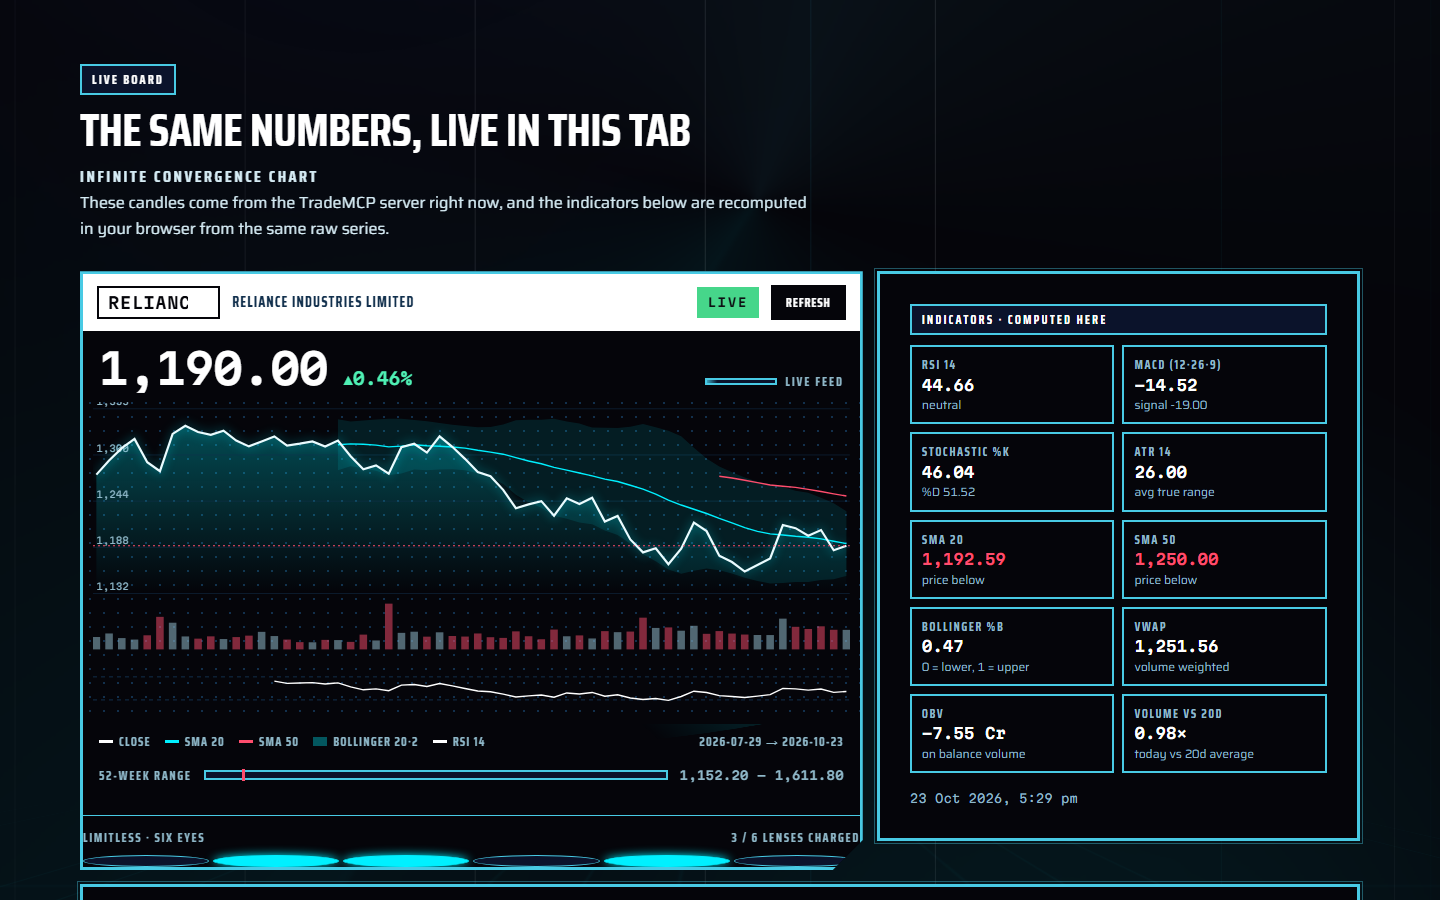
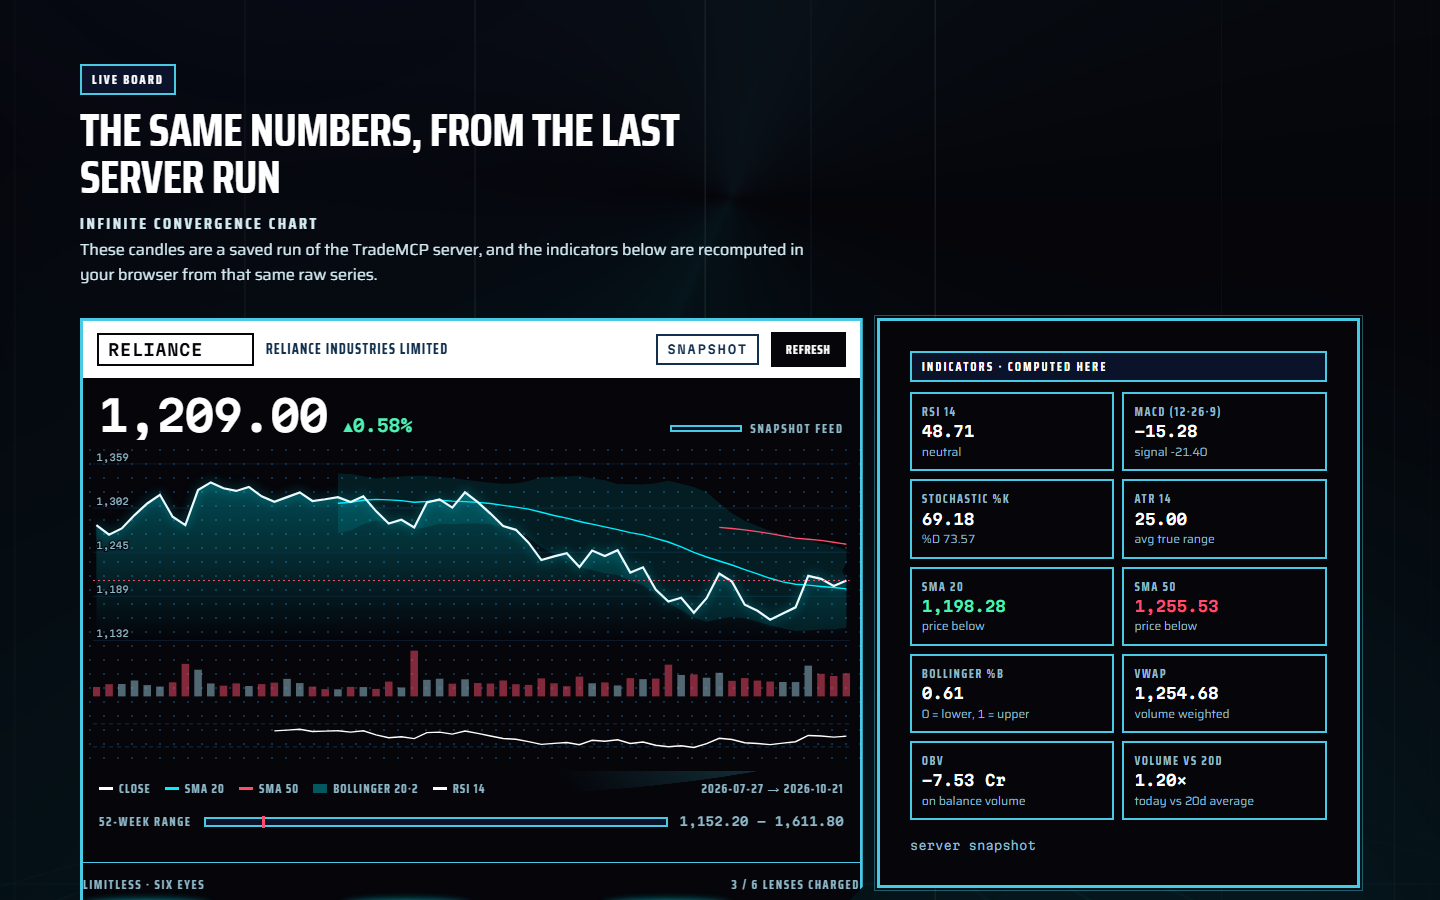
Give the page's edges back: a focus ring you can see, a chart you can read
The polish pass found the site's own edges failing in four ways, and one
thing both audits missed:

- The focus ring was drawn in the accent colour, which is the same colour as
  the button it was marking in the shrine (1.00:1) and was near invisible on
  the live board's input and the screener's chips in the other themes. It is
  now drawn inside the control, in the control's own text colour, which is
  always chosen against that control's fill: 0 invisible rings across four
  themes and 132 tab stops.
- The chart is drawn in a fixed 900-unit space and stretched into the panel,
  so on a phone its price labels rendered at five pixels tall. They now grow
  with the plot, they are knocked out of the price line the way a caption is
  knocked out of a panel, and the top label is no longer sliced.
- The domain nameplate existed only as an animation, so under
  prefers-reduced-motion it resolved to its invisible last keyframe and the
  one place that names the open domain never fired. It has a still state.
- The symbol chip clipped RELIANCE to RELIANC; the phone nav hid its last
  destination with no affordance; the working install command split the
  GitHub URL mid-token into "aswat" and "has"; and the flagged npx command
  was the smallest text in the hero.
- The HUD badge claimed LIVE over a snapshot. It says SNAPSHOT until the feed
  is live, and the shrine's CALL badge no longer sits at 3.9:1.

Changed region(s): [[0.0312, 0.1556, 0.9375, 1.0], [0.3125, 0.1244, 0.5, 0.1867]]

diff --git a/showcase/site/styles.css b/showcase/site/styles.css
@@ -157,9 +157,16 @@ html:not(.has-cursor) [role="tab"] { cursor: pointer; }
 }
 .skip:focus { left: 8px; top: 8px; }
 
+/* The ring has to survive a control that is painted with the page's own ink:
+   the live board's input sits on an inverted bar, the screener's chips are
+   white on a dark panel, and in the shrine the active chip is the same
+   crimson as the accent - so a ring in the accent colour lands on the same
+   colour as the button it is marking. The ring is therefore drawn inside the
+   control, in the control's own text colour, which is chosen against that
+   control's fill everywhere on the page. */
 :focus-visible {
-  outline: 3px solid var(--cyan);
-  outline-offset: 3px;
+  outline: 3px solid currentColor;
+  outline-offset: -3px;
 }
 
 /* The parts of the page that were not drawn still have to belong to it.
@@ -1243,13 +1250,13 @@ code {
   font-size: 16px;
   letter-spacing: 0.04em;
   text-transform: uppercase;
-  width: 11ch;
+  width: 14ch;
   padding: 5px 9px;
   border: 2px solid var(--paper);
   background: transparent;
   color: var(--paper);
 }
-.board__symbol input:focus { outline: 2px solid var(--cyan); outline-offset: 1px; }
+.board__symbol input:focus { outline: 2px solid currentColor; outline-offset: -2px; }
 
 .board__name {
   font-family: var(--font-ui);
@@ -1312,15 +1319,33 @@ code {
 
 /* The chart holds its space even before the series arrives, so the panel
    never jumps when the SVG is written into it. */
-.chart { padding: 6px 10px 0; aspect-ratio: 900 / 380; }
+.chart {
+  padding: 6px 10px 0;
+  aspect-ratio: 900 / 380;
+  /* The plot is drawn in a fixed 900-unit space and stretched into the panel,
+     so on a phone it is scaled to about a third. The price labels live inside
+     that space, so they are sized in the same units - and the type has to
+     grow as the plot shrinks, or the reader gets four-pixel numbers. */
+  --chart-axis: 11px;
+}
+@media (max-width: 720px) { .chart { --chart-axis: 16px; } }
+@media (max-width: 560px) { .chart { --chart-axis: 22px; } }
+@media (max-width: 430px) { .chart { --chart-axis: 28px; } }
+@media (max-width: 360px) { .chart { --chart-axis: 34px; } }
 .chart__svg { width: 100%; height: 100%; display: block; }
 .chart__empty { padding: 40px 10px; color: var(--ink-3); font-size: 14px; }
 
 .chart__grid { stroke: var(--tone); stroke-width: 1; vector-effect: non-scaling-stroke; opacity: 0.5; }
 .chart__axis {
   font-family: var(--font-data);
-  font-size: 11px;
+  font-size: var(--chart-axis, 11px);
   fill: var(--ink-3);
+  /* The price labels sit on top of the price line, so they are knocked out
+     of it the way a caption is knocked out of a panel in a comic. */
+  paint-order: stroke fill;
+  stroke: var(--paper);
+  stroke-width: calc(var(--chart-axis, 11px) * 0.26);
+  stroke-linejoin: round;
 }
 .chart__band { fill: var(--cyan); opacity: 0.1; }
 .chart__price { fill: none; stroke: var(--ink); stroke-width: 2.2; vector-effect: non-scaling-stroke; }
@@ -1339,20 +1364,22 @@ code {
    THE CHART IGNITES
    ==========================================================================
    The price line is not a static drawing. A front runs along it, and the ink
-   behind the front is drawn while ahead of the front there is nothing. Which
-   way the front runs depends on what happened:
+   behind the front is drawn while ahead of the front there is nothing. The
+   front always runs one way - from the oldest close to the current price,
+   left to right - so the series is written in reading order, and it does so
+   on a falling market exactly as on a rising one. What changes between the
+   two modes is the character of the run, not its direction:
 
      enter   the chart is being born. The front starts at the oldest close
-             and runs right, so the series is written in reading order.
-     ignite  the data changed. The newest close - the current price -
-             ignites first and the heat runs back through the history. A
-             refresh never leaves a line running from the left edge of the
-             chart to the current price.
+             and runs right, at the page's own pace.
+     ignite  the data changed. The same run again, oldest close to current
+             price, but hotter - a longer streak of ember in front of it.
 
    The front is an SVG dash. Every wipe path carries pathLength="1", so
-   stroke-dashoffset travels 1 -> 0 (left to right) or -1 -> 0 (right to
-   left) without measuring a single pixel. The ember is a short dash of the
-   same path, so it rides the front for free.
+   stroke-dashoffset travels 1 -> 0 (left to right) without measuring a
+   single pixel. The ember is a short dash of the same path, so it rides the
+   front for free. The asteroid rides it as well: an <animateMotion> along
+   the price path, so it comes to rest exactly on the current price.
 
    The chart's own state is on the host: data-motion says which way the front
    runs, data-draw says whether it is running. Without those attributes the
@@ -1858,7 +1885,7 @@ html.is-flat .panel--hud { transform: none; }
 
 /* the LIVE badge throws a ring when it goes live */
 .board__badge--live {
-  animation: badge-lock 420ms cubic-bezier(0.2, 1.5, 0.4, 1);
+  animation: badge-lock 420ms cubic-bezier(0.16, 1, 0.3, 1);
 }
 @keyframes badge-lock {
   0% { transform: scale(0.7); box-shadow: 0 0 0 0 var(--green); }
@@ -1967,6 +1994,9 @@ html.is-flat .panel--hud { transform: none; }
   height: 26px;
   background: transparent;
   border: 0;
+  /* the browser's own field colour, so the focus ring that is drawn in the
+     control's text colour comes out in the theme's ink and not in black */
+  color: var(--ink);
   cursor: pointer;
 }
 .filter input[type="range"]::-webkit-slider-runnable-track {
@@ -2089,7 +2119,7 @@ html.is-flat .panel--hud { transform: none; }
     margin-left: 0;
     flex-wrap: nowrap;
     justify-content: flex-start;
-    gap: 14px;
+    gap: 9px;
     overflow-x: auto;
     overscroll-behavior-x: contain;
     scrollbar-width: none;
@@ -2097,9 +2127,16 @@ html.is-flat .panel--hud { transform: none; }
     -webkit-overflow-scrolling: touch;
   }
   .nav::-webkit-scrollbar { display: none; }
+  /* If the row still has to scroll - a wider fallback face, a longer label -
+     it says so: the right edge fades out, so the cut reads as more rather
+     than as a missing link. */
+  .nav--more {
+    -webkit-mask-image: linear-gradient(to right, #000 calc(100% - 28px), transparent 100%);
+    mask-image: linear-gradient(to right, #000 calc(100% - 28px), transparent 100%);
+  }
   .nav a {
-    font-size: 12px;
-    letter-spacing: 0.09em;
+    font-size: 11px;
+    letter-spacing: 0.06em;
     white-space: nowrap;
     padding: 2px 0;
   }
@@ -2777,7 +2814,7 @@ html.is-cast .panel--hero { animation: cast-flash 800ms ease-out; }
   transition: background 150ms ease, color 150ms ease, transform 150ms ease;
 }
 .tech:hover { transform: translate(-1px, -1px); }
-.tech:focus-visible { outline: 2px solid var(--tech-c); outline-offset: 2px; }
+.tech:focus-visible { outline: 2px solid var(--tech-c); outline-offset: -2px; }
 /* On the light page the technique colours have to be dark enough to read;
    inside a domain they can be the bright, glowing version. */
 .tech--void { --tech-c: #0a6478; }
@@ -3593,7 +3630,7 @@ html.is-cut .cut::after { animation: cut-slash 620ms ease-out forwards; }
   transition: background 140ms ease, color 140ms ease;
 }
 .terminal__copy:hover { background: var(--cyan); color: var(--paper); }
-.terminal__copy:focus-visible { outline: 2px solid var(--cyan); outline-offset: 2px; }
+.terminal__copy:focus-visible { outline: 2px solid currentColor; outline-offset: -2px; }
 
 /* The source install. The npx command above it is the product's front door,
    but it does not resolve until the package is published, so the command that
@@ -3615,7 +3652,11 @@ html.is-cut .cut::after { animation: cut-slash 620ms ease-out forwards; }
   font-size: 13px;
   line-height: 1.4;
   color: var(--ink);
-  overflow-wrap: anywhere;
+  /* The URL is one long token, and breaking it anywhere split "aswathas" into
+     "aswat" and "has" - a command nobody can retype. It breaks at the path
+     separators instead, which the markup marks with <wbr>. */
+  overflow-wrap: break-word;
+  word-break: normal;
 }
 .terminal__src .terminal__copy { width: auto; flex: none; font-size: 11px; padding: 6px 10px; }
 [data-theme="shrine"] .terminal__src { background: #120a0c; border-color: rgba(229, 9, 20, 0.55); }
@@ -3662,6 +3703,17 @@ html.is-cut .cut::after { animation: cut-slash 620ms ease-out forwards; }
   74% { opacity: 1; transform: translate(-50%, -50%) rotate(-4deg) scale(1); }
   100% { opacity: 0; transform: translate(-50%, -50%) rotate(-4deg) scale(0.94); }
 }
+/* Reduced motion kills the animation, and an animation with fill-mode "both"
+   resolves straight to its last keyframe - which is invisible. So the plate is
+   given a still state of its own: the name is simply there, for as long as
+   the stamp is held. */
+@media (prefers-reduced-motion: reduce) {
+  .cast-plate.is-stamped {
+    animation: none;
+    opacity: 1;
+    transform: translate(-50%, -50%) rotate(-4deg) scale(1);
+  }
+}
 
 /* ---------- the technique panel ------------------------------------------
    The rail is a bordered plate with the cut between the two techniques, the
@@ -3678,11 +3730,13 @@ html.is-cut .cut::after { animation: cut-slash 620ms ease-out forwards; }
 [data-theme="shrine"] .tech__txt i { color: #8d8386; }
 
 /* On a phone the command needs the whole row and the copy button gets its
-   own line under it, instead of the command breaking in half. */
+   own line under it, instead of the command breaking in half. The command
+   stays the same size as the source command under it: the flagged line must
+   never be the smallest thing in the hero. */
 @media (max-width: 560px) {
   .terminal { flex-wrap: wrap; }
   .terminal__prompt { align-self: flex-start; }
-  .terminal__cmd { font-size: 11.5px; }
+  .terminal__cmd { font-size: 13px; }
   .terminal__copy { width: 100%; text-align: center; }
 }
 
@@ -3972,13 +4026,13 @@ html.has-cursor input[type="range"]::-moz-range-thumb { cursor: grab; }
     linear-gradient(var(--ink), var(--ink)) 100% 50% / 8px 1.5px no-repeat;
   opacity: 0;
   transform: scale(0.55);
-  transition: opacity 140ms ease, transform 140ms cubic-bezier(0.2, 1.4, 0.4, 1);
+  transition: opacity 140ms ease, transform 140ms cubic-bezier(0.16, 1, 0.3, 1);
 }
 .cursor.is-target .cursor__ring { opacity: 1; transform: scale(1); }
 
 /* the press: the nib squashes into the paper */
 .cursor.is-press .cursor__nib { transform: translate(-11px, -20px) scale(0.86); }
-.cursor__nib { transition: transform 140ms cubic-bezier(0.2, 1.4, 0.4, 1); }
+.cursor__nib { transition: transform 140ms cubic-bezier(0.16, 1, 0.3, 1); }
 
 /* the control that was clicked gets a cyan flash */
 .is-hit { outline: 2px solid var(--cyan); outline-offset: 3px; }
@@ -4313,6 +4367,10 @@ html.is-flat .call__aura { display: none; }
 }
 [data-theme="shrine"] .call__packet-tag,
 [data-theme="shrine"] .call__node-value { color: #ff8a6b; }
+[data-theme="shrine"] .call__state[data-state="live"] {
+  color: #ff8a6b;
+  border-color: #ff8a6b;
+}
 
 .call__board[data-phase="ask"] .call__packet {
   animation: call-out 760ms cubic-bezier(0.42, 0, 0.2, 1) forwards;
@@ -4454,7 +4512,7 @@ html.is-flat .call__aura { display: none; }
   white-space: pre;
   tab-size: 2;
 }
-.call__code:focus-visible { outline: 2px solid var(--cyan); outline-offset: -2px; }
+.call__code:focus-visible { outline: 2px solid currentColor; outline-offset: -2px; }
 
 /* ---------- what it cost ---------------------------------------------------- */
 

diff --git a/showcase/site/live.js b/showcase/site/live.js
@@ -388,8 +388,9 @@ function igniteChart(mode) {
 }
 
 /* The chart is born once, left to right, the first time it comes into view.
-   Every render after that is an update: the newest close ignites and the
-   heat runs back through the series.
+   Every render after that is an update, and it runs the same way: from the
+   oldest close to the current price, left to right. The ignite mode is
+   hotter, not reversed.
 
    A render that lands while the front is still running does not change its
    mind. The front the reader is already watching is the front that finishes,
@@ -500,6 +501,13 @@ function renderChart(candles) {
   const mid50 = sma(closes, 50);
   const rsiSeries = rsi(closes, 14);
 
+  /* The price labels are sized in the plot's own units, and the plot is
+     stretched into the panel, so the type grows as the panel narrows. The
+     scale needs room for that type above it, so the head of the price scale
+     moves down as the type grows. */
+  const axisPx = parseFloat(getComputedStyle(host).getPropertyValue("--chart-axis")) || 11;
+  CH.priceTop = Math.max(8, axisPx * 1.6);
+
   const visible = candles.map((c) => c.close);
   const allValues = visible.concat(bands.upper.filter((v) => v !== null), bands.lower.filter((v) => v !== null));
   let lo = Math.min(...allValues);
@@ -562,8 +570,11 @@ function renderChart(candles) {
     const v = lo + ((hi - lo) * g) / 4;
     const y = yOf(v);
     svg.appendChild(svgEl("line", { x1: 0, y1: y, x2: CH.w, y2: y, class: "chart__grid" }));
-    const label = svgEl("text", { x: 4, y: y - 4, class: "chart__axis" });
+    const label = svgEl("text", { x: 4, class: "chart__axis" });
     label.textContent = nf(v, 0);
+    /* The label sits just above its own gridline, and never above the top of
+       the plot - a number sliced in half is worse than one nudged down. */
+    label.setAttribute("y", Math.max(y - axisPx * 0.35, axisPx * 1.15));
     svg.appendChild(label);
   }
 

diff --git a/showcase/site/app.js b/showcase/site/app.js
@@ -238,9 +238,13 @@ function stampDomain(key) {
   void plate.offsetWidth;
   plate.classList.add("is-stamped");
   clearTimeout(stampDomain._timer);
+  /* With the motion off the plate is a still label instead of a stamp, and
+     there is no fade to carry the eye - so it is held a little longer. */
+  const still = window.matchMedia
+    && window.matchMedia("(prefers-reduced-motion: reduce)").matches;
   stampDomain._timer = setTimeout(function () {
     plate.classList.remove("is-stamped");
-  }, 1850);
+  }, still ? 2600 : 1850);
 }
 
 const domainLabels = {
@@ -499,6 +503,15 @@ function wireDolly() {
   update();
 }
 
+/* The phone nav is one scrolling row. If it has to scroll - a wider fallback
+   face, a longer label - it says so with a faded edge, so a link cut off at
+   the right reads as more rather than as a missing destination. */
+function markNavOverflow() {
+  const nav = document.querySelector(".nav");
+  if (!nav) return;
+  nav.classList.toggle("nav--more", nav.scrollWidth > nav.clientWidth + 2);
+}
+
 /* ---------- anchors: land below the sticky masthead ------------------------- */
 
 /* The masthead is sticky, so an anchor jump that scrolls a section's top to
@@ -513,7 +526,8 @@ function wireAnchorOffset() {
 
   const update = () => {
     const h = Math.round(masthead.getBoundingClientRect().height);
-    if (h > 0) root.style.setProperty("--masthead-h", `${h}px`);
+    if (h > 0) root.style.setProperty("--masthead-h", `${h}px}`);
+    markNavOverflow();
   };
 
   update();

diff --git a/showcase/site/index.html b/showcase/site/index.html
@@ -91,7 +91,7 @@
           tools, no key. <a href="#install">Full install</a>.
         </p>
         <div class="terminal__src">
-          <code id="hero-source-command">git clone https://github.com/aswathas/TradeMCP &amp;&amp; pip install -e .</code>
+          <code id="hero-source-command">git clone https://github.com/<wbr>aswathas/<wbr>TradeMCP &amp;&amp; pip install -e .</code>
           <button class="terminal__copy" type="button" data-copy-target="hero-source-command" aria-label="Copy the source install command">Copy</button>
         </div>
 
@@ -132,8 +132,8 @@
           <path d="M20 84 H400" />
         </svg>
         <div class="hud-head">
-          <h2 class="hud-title" id="hud-title">Live analysis panel</h2>
-          <span class="hud-tag" id="hud-tag"><span class="hud-dot" aria-hidden="true"></span><span id="hud-tag-text">LIVE · RELIANCE INDUSTRIES · NSE</span></span>
+          <h2 class="hud-title" id="hud-title">Analysis panel</h2>
+          <span class="hud-tag hud-tag--snapshot" id="hud-tag"><span class="hud-dot" aria-hidden="true"></span><span id="hud-tag-text">SNAPSHOT · RELIANCE INDUSTRIES · NSE</span></span>
         </div>
 
         <div class="hud-readout hud-readout--hero">
